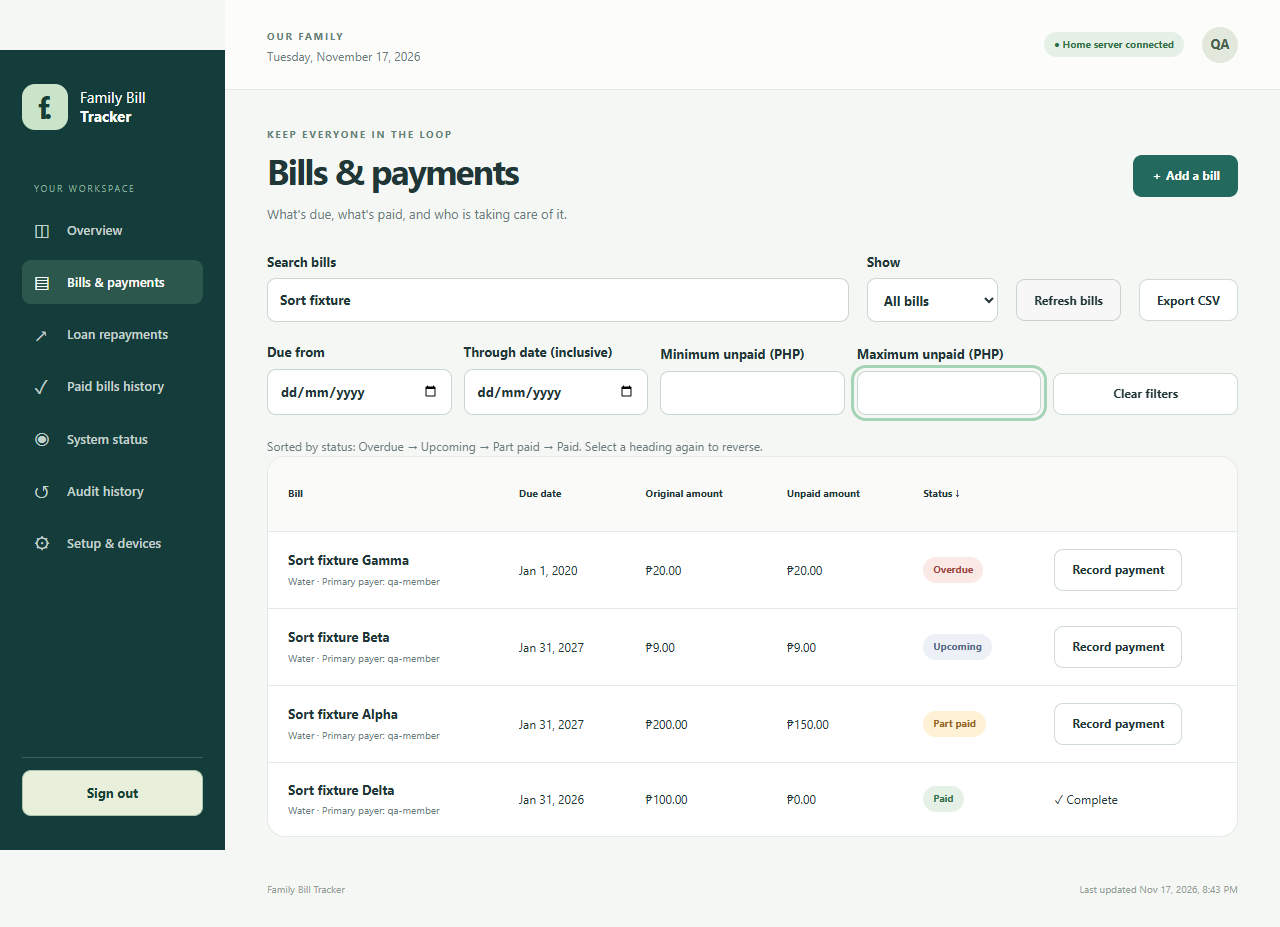
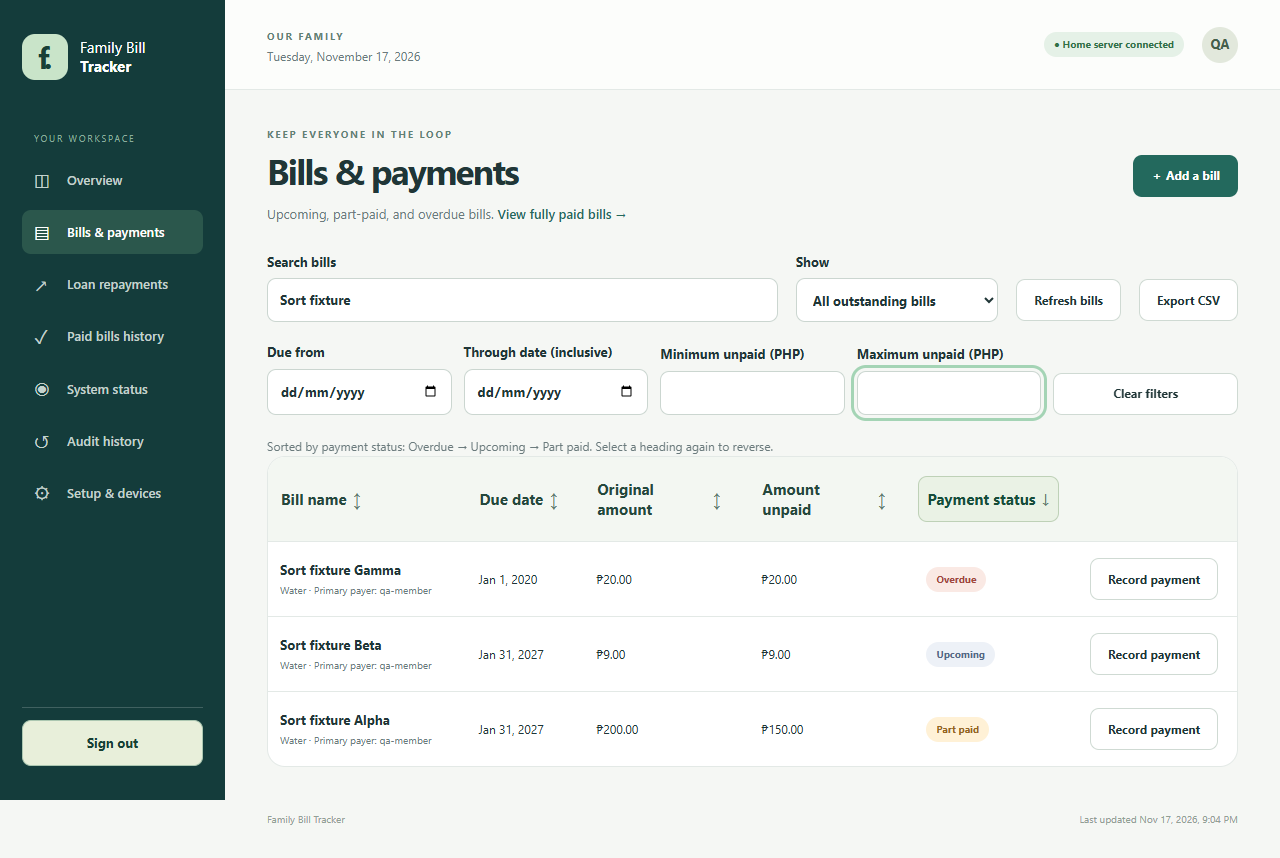
Clarify bill headings and keep paid records in history

diff --git a/templates/app.html b/templates/app.html
@@ -5,7 +5,7 @@
 <div class="workspace"><header class="topbar"><div><span class="eyebrow" id="family-name">YOUR FAMILY WORKSPACE</span><p id="today-label" class="small muted"></p></div><div class="topbar-right"><span id="connection-badge" class="badge muted-badge">Connecting</span><span id="user-avatar" class="avatar" aria-label="Your account">F</span></div></header>
 <main id="main"><div id="notice" class="notice" role="status" hidden><div><strong id="notice-title"></strong><p id="notice-copy"></p></div><button id="refresh-snapshot" class="button primary" hidden>Update saved bills</button></div><div id="error" class="form-error" role="alert" hidden></div><div id="loading" class="empty"><div class="brand-mark">f.</div><h2>Opening your family workspace…</h2><p>Checking the connection to your home server.</p></div>
 <section id="overview" class="page" hidden><div class="page-heading"><div><p class="eyebrow">A CLEARER PICTURE</p><h1>One less thing to remember.</h1><p class="muted">A little planning today. More peace of mind tomorrow.</p></div><button class="button primary add-bill" data-online>＋ Add a bill</button></div><div class="stats" id="stats"></div><div class="dashboard-grid"><article class="card"><div class="card-heading"><div><h2>Coming up next</h2><p class="muted small">Your next payments, in order.</p></div><a href="#bills">View all →</a></div><div id="upcoming-list"></div></article><div class="stack"><article class="home-card"><span class="eyebrow">YOUR HOME CONNECTION</span><div class="home-icon" aria-hidden="true">⌂</div><h2 id="home-name">Family NAS</h2><p id="home-copy">Checking your home server.</p><a href="#system" class="button light">Check system status →</a></article><article class="card"><p class="eyebrow">A LITTLE ROUTINE HELPS</p><h3>Paid a bill today?</h3><p class="muted small">Record the payment so everyone knows it's taken care of.</p><a href="#bills">Review your bills →</a></article></div></div><article class="card activity-card"><div class="card-heading"><h2>Recently recorded</h2><span class="small muted">Shared with your family</span></div><div id="activity-list"></div></article></section>
-<section id="bills" class="page" hidden><div class="page-heading"><div><p class="eyebrow">KEEP EVERYONE IN THE LOOP</p><h1>Bills & payments</h1><p class="muted">What's due, what's paid, and who is taking care of it.</p></div><button class="button primary add-bill" data-online>＋ Add a bill</button></div><div class="toolbar"><label class="search-label">Search bills<input id="search" type="search" placeholder="Search title, category, or person"></label><label>Show<select id="status-filter"><option value="all">All bills</option><option value="unpaid">Unpaid</option><option value="overdue">Overdue</option><option value="paid">Paid</option></select></label><button id="refresh-online" class="button secondary" data-online>Refresh bills</button><a class="button secondary" id="export-link" href="/api/export/">Export CSV</a></div><div id="bill-filters"></div><div id="mobile-bill-sort" class="mobile-bill-sort" aria-label="Sort bills"></div><p id="bill-sort-description" class="hint" role="status"></p><article class="card bill-table"><div class="table-scroll"><table><thead><tr><th aria-sort="none"><button type="button" class="sort-heading" data-sort="title">Bill <span aria-hidden="true"></span></button></th><th aria-sort="ascending"><button type="button" class="sort-heading" data-sort="date">Due date <span aria-hidden="true">↑</span></button></th><th aria-sort="none"><button type="button" class="sort-heading" data-sort="original">Original amount <span aria-hidden="true"></span></button></th><th aria-sort="none"><button type="button" class="sort-heading" data-sort="amount">Unpaid amount <span aria-hidden="true"></span></button></th><th aria-sort="none"><button type="button" class="sort-heading" data-sort="status">Status <span aria-hidden="true"></span></button></th><th><span class="sr-only">Action</span></th></tr></thead><tbody id="bill-rows"></tbody></table></div><div id="bills-empty" class="empty" hidden><h3>No matching bills.</h3><p>Clear the filters or add a bill.</p></div></article></section>
+<section id="bills" class="page" hidden><div class="page-heading"><div><p class="eyebrow">KEEP EVERYONE IN THE LOOP</p><h1>Bills & payments</h1><p class="muted">Upcoming, part-paid, and overdue bills. <a href="#history">View fully paid bills →</a></p></div><button class="button primary add-bill" data-online>＋ Add a bill</button></div><div class="toolbar"><label class="search-label">Search bills<input id="search" type="search" placeholder="Search title, category, or person"></label><label>Show<select id="status-filter"><option value="all">All outstanding bills</option><option value="upcoming">Upcoming</option><option value="partial">Part paid</option><option value="overdue">Overdue</option></select></label><button id="refresh-online" class="button secondary" data-online>Refresh bills</button><a class="button secondary" id="export-link" href="/api/export/">Export CSV</a></div><div id="bill-filters"></div><div id="mobile-bill-sort" class="mobile-bill-sort" aria-label="Sort bills"></div><p id="bill-sort-description" class="hint" role="status"></p><article class="card bill-table"><div class="table-scroll"><table><thead><tr><th aria-sort="none"><button type="button" class="sort-heading" data-sort="title">Bill name <span aria-hidden="true"></span></button></th><th aria-sort="ascending"><button type="button" class="sort-heading" data-sort="date">Due date <span aria-hidden="true">↑</span></button></th><th aria-sort="none"><button type="button" class="sort-heading" data-sort="original">Original amount <span aria-hidden="true"></span></button></th><th aria-sort="none"><button type="button" class="sort-heading" data-sort="amount">Amount unpaid <span aria-hidden="true"></span></button></th><th aria-sort="none"><button type="button" class="sort-heading" data-sort="status">Payment status <span aria-hidden="true"></span></button></th><th><span class="sr-only">Action</span></th></tr></thead><tbody id="bill-rows"></tbody></table></div><div id="bills-empty" class="empty" hidden><h3>No outstanding bills match.</h3><p>Clear the filters, add a bill, or <a href="#history">review paid bills history</a>.</p></div></article></section>
 <section id="loans" class="page" hidden><div class="page-heading"><div><p class="eyebrow">ONE INSTALLMENT AT A TIME</p><h1>Loan repayments</h1><p class="muted">Track agreed repayment amounts without connecting a bank.</p></div><button id="add-loan" class="button primary" data-online>＋ Add a loan</button></div><div id="loan-filters"></div><div id="loan-cards" class="loan-grid"></div></section>
 <section id="history" class="page" hidden>
 <div class="page-heading"><div><p class="eyebrow">SHARED WITH YOUR FAMILY</p><h1>Paid bills history</h1><p class="muted">Review fully paid bills and completed loan installments.</p></div></div>

diff --git a/static/app.css b/static/app.css
@@ -23,3 +23,8 @@ progress{display:block;width:100%;height:9px;border:0;accent-color:#609779;margi
 @media(min-width:781px){.stats{grid-template-columns:repeat(3,minmax(0,1fr))}.bill-table .table-scroll,.history-table .table-scroll{overflow-x:auto}.bill-table table{min-width:730px}}@media(max-width:780px){.mobile-bill-sort{display:flex;gap:8px;flex-wrap:wrap;margin:0 0 12px}.mobile-bill-sort .button{min-height:44px;padding:8px 10px;white-space:normal}.mobile-bill-sort [aria-pressed=true]{background:#e6efdc;border-color:#7d9d83}.bill-table td:nth-child(3)::before{content:"Original ";color:var(--muted);font-weight:400}.bill-table td:nth-child(4)::before{content:"Unpaid ";color:var(--muted);font-weight:400}.bill-table td:nth-child(4){text-align:right;font-weight:650}.bill-table td:nth-child(5){text-align:left}.bill-table td:nth-child(6){text-align:right}.history-table{overflow:visible}.history-table thead{display:none}.history-table tbody tr{display:grid;grid-template-columns:minmax(0,1fr) minmax(0,1fr);gap:12px;padding:18px;border-top:1px solid var(--line)}.history-table td{border:0;padding:0;min-width:0!important;overflow-wrap:anywhere}.history-table td:first-child{grid-column:1/-1}.history-table td[data-label]::before{content:attr(data-label);display:block;font-size:11px;color:var(--muted)}.history-table td:last-child{grid-column:1/-1}.history-table .table-scroll{overflow:visible}.history-table .bill-detail{min-height:44px}.sort-heading{min-height:44px}}@media(max-width:380px){.stats{grid-template-columns:1fr}.bill-type-choice{padding:16px}}
 
 .history-table{padding:0}@media(max-width:780px){.stats .stat:last-child:nth-child(3){grid-column:1/-1}.bill-table td:nth-child(2){grid-column:1/-1}.bill-table td:nth-child(3){text-align:left}.bill-table td:nth-child(5){grid-column:1}.bill-table td:nth-child(6){grid-column:2}}
+
+/* Larger, sentence-case sorting controls with clear hover, active and focus states. */
+.bill-table th{padding:12px 20px;text-transform:none;letter-spacing:0;background:#f3f7f2}.bill-table .sort-heading{display:inline-flex;align-items:center;gap:9px;min-height:46px;margin-left:-10px;padding:10px;border:1px solid transparent;border-radius:9px;font-family:inherit;font-size:15px;font-weight:700;line-height:1.35;letter-spacing:0;text-transform:none;color:#25483d;text-decoration:none}.sort-heading span{font-size:18px;line-height:1;color:#617b6e}.bill-table .sort-heading:hover{background:#e4efdf;border-color:#abc5af;color:#153f31;text-decoration:none}.bill-table th[aria-sort=ascending] .sort-heading,.bill-table th[aria-sort=descending] .sort-heading{background:#eaf2e5;border-color:#bed1b7;color:#174d3a}.bill-table th[aria-sort=ascending] .sort-heading:hover,.bill-table th[aria-sort=descending] .sort-heading:hover{background:#dcebd5;border-color:#8daf95}.bill-table .sort-heading:focus-visible{outline:3px solid #3c8666;outline-offset:2px;background:#e4efdf}.mobile-bill-sort .button{font-size:13px;gap:8px}.mobile-bill-sort .button:hover{background:#e4efdf;border-color:#abc5af}@media(min-width:781px){.bill-table table{min-width:890px}}@media(prefers-reduced-motion:no-preference){.sort-heading,.mobile-bill-sort .button{transition:background-color .15s,border-color .15s,color .15s}}
+
+.bill-table .sort-heading{white-space:normal;max-width:142px;margin-left:-8px;padding:9px 8px;gap:6px}@media(min-width:781px){.bill-table th{padding:12px}.bill-table td{padding:16px 12px}}

diff --git a/static/app.js b/static/app.js
@@ -102,7 +102,7 @@
     if (!data) return;
     const search = $('search').value.toLowerCase();
     const filter = $('status-filter').value;
-    const bills = FBTFilters.filterRecords(data.bills, {...viewFilters('bill'), search, status:filter, sort:billSort});
+    const bills = FBTFilters.filterRecords(data.bills.filter(b=>Number(b.balance)>0), {...viewFilters('bill'), search, status:filter, sort:billSort});
     $('bill-rows').innerHTML = bills.map(row).join('');
     $('bills-empty').hidden = bills.length > 0;
     updateSortHeadings();
@@ -110,16 +110,16 @@
   function viewFilters(prefix) {
     return Object.fromEntries(new FormData($(`${prefix}-view-filters`)));
   }
-  const sortNames={title:'Bill',date:'Due date',original:'Original amount',amount:'Unpaid amount',status:'Status'};
+  const sortNames={title:'Bill name',date:'Due date',original:'Original amount',amount:'Amount unpaid',status:'Payment status'};
   const firstSort={title:'asc',date:'asc',original:'desc',amount:'desc',status:'asc'};
-  const sortDirection=(key,direction)=>key==='title'?(direction==='asc'?'A–Z':'Z–A'):key==='date'?(direction==='asc'?'earliest first':'latest first'):key==='status'?(direction==='asc'?'Paid → Part paid → Upcoming → Overdue':'Overdue → Upcoming → Part paid → Paid'):(direction==='asc'?'lowest first':'highest first');
+  const sortDirection=(key,direction)=>key==='title'?(direction==='asc'?'A–Z':'Z–A'):key==='date'?(direction==='asc'?'earliest first':'latest first'):key==='status'?(direction==='asc'?'Part paid → Upcoming → Overdue':'Overdue → Upcoming → Part paid'):(direction==='asc'?'lowest first':'highest first');
   $('mobile-bill-sort').innerHTML=Object.entries(sortNames).map(([key,name])=>`<button type="button" class="button secondary" data-sort="${key}" data-sort-name="${name}">${name}<span aria-hidden="true"></span></button>`).join('');
   function updateSortHeadings() {
     const [key,direction]=billSort.split('-');
     document.querySelectorAll('[data-sort]').forEach(button=> {
       const active=button.dataset.sort===key;
       const next=active?(direction==='asc'?'desc':'asc'):firstSort[button.dataset.sort];
-      button.querySelector('span').textContent=active?(direction==='asc'?' ↑':' ↓'):'';
+      button.querySelector('span').textContent=active?(direction==='asc'?' ↑':' ↓'):' ↕';
       button.setAttribute('aria-label',`${sortNames[button.dataset.sort]}: sort ${sortDirection(button.dataset.sort,next)}`);
       button.closest('th')?.setAttribute('aria-sort',active?(direction==='asc'?'ascending':'descending'):'none');
       if(button.closest('#mobile-bill-sort')) button.setAttribute('aria-pressed',String(active));

diff --git a/static/sw.js b/static/sw.js
@@ -1,5 +1,5 @@
 /* Cache only the public shell. Authenticated responses and API data are never cached here. */
-const SHELL_CACHE = 'fbt-shell-v7';
+const SHELL_CACHE = 'fbt-shell-v8';
 const ASSETS = ['/app/', '/static/app.css', '/static/fonts.css', '/static/app.js', '/static/review.js', '/static/review.css', '/static/record-filters.js', '/static/offline-store.js', '/static/icon.svg', '/static/icon-180.png', '/static/icon-192.png', '/static/icon-512.png', '/static/manifest.webmanifest'];
 self.addEventListener('install', event => {
   event.waitUntil(caches.open(SHELL_CACHE).then(cache => cache.addAll(ASSETS)).then(() => self.skipWaiting()));

diff --git a/docs/BILL-ENTRY-AND-HISTORY.md b/docs/BILL-ENTRY-AND-HISTORY.md
@@ -13,23 +13,23 @@ Existing records keep their stored categories. No type migration is applied to e
 
 ## Sort using bill headings
 
-Bills & payments shows original amount and unpaid amount separately. Select a heading to sort immediately, then select it again to reverse:
+Bills & payments shows only outstanding bills, with original amount and amount unpaid separately. Fully paid records appear in Paid bills history, preserving their payments and audit records. Select a heading to sort immediately, then select it again to reverse:
 
 | Heading | Initial direction when selecting a different heading | Reverse |
 | --- | --- | --- |
-| Bill | A–Z, case-insensitive natural order | Z–A |
+| Bill name | A–Z, case-insensitive natural order | Z–A |
 | Due date | Earliest | Latest |
 | Original amount | Highest | Lowest |
-| Unpaid amount | Highest | Lowest |
-| Status | Paid → Part paid → Upcoming → Overdue | Overdue → Upcoming → Part paid → Paid |
+| Amount unpaid | Highest | Lowest |
+| Payment status | Part paid → Upcoming → Overdue | Overdue → Upcoming → Part paid |
 
-The initial view is already sorted by earliest due date. Clicking its active Due date heading reverses that order. Equal values use record ID as the tie-breaker. Original amount means that bill's amount, including an individual loan installment rather than the whole parent loan. Status rank preserves the requested Paid / Part paid / Overdue ordering while retaining Upcoming.
+The initial view is already sorted by earliest due date. Clicking its active Due date heading reverses that order. Equal values use record ID as the tie-breaker. Original amount means that bill's amount, including an individual loan installment rather than the whole parent loan. The outstanding view orders Part paid, Upcoming, and Overdue explicitly. Its status filter has no Paid option; fully paid records are reviewed in history. Larger sentence-case heading buttons show a hover/focus highlight and an active direction indicator.
 
 There is no Bills Sort by dropdown. On phones, labelled sorting buttons appear above the cards and use the same active state and directions. Loan cards retain their separate sort dropdown. Search and date/amount/status filters combine with the selected bill sort, which remains selected through ordinary snapshot refreshes and detail viewing. Clear filters resets the bill view to its initial earliest-first order. All changes are immediate and do not require transaction confirmation.
 
 ## Shared paid-bills history
 
-The Overview paid-bill summary is replaced by **Paid bills history**, available to every signed-in family member. It includes only bills with zero remaining balance and recorded payments, including completed loan installments. Part-paid records remain in the existing bill views with their payment details.
+Fully paid bills are excluded from Bills & payments and retained in history. The Overview paid-bill summary is replaced by **Paid bills history**, available to every signed-in family member. It includes only bills with zero remaining balance and recorded payments, including completed loan installments. Part-paid records remain in the existing bill views with their payment details.
 
 History shows the original amount, total recorded payments, due date, and **Date fully paid**. That date is the latest recorded payment date on the bill; it is not the time someone entered the record. Review payments opens individual amounts/dates, their recorders, notes, primary payer, and a parent-loan reference when applicable.
 
@@ -39,7 +39,7 @@ Primary payer and Recorded by are separate filters. A recorder is the person who
 
 The same sorting and history operate on an opted-in, timestamped offline snapshot. This remains read-only; reconnect and refresh to obtain newer payments or names. Older saved snapshots can use their recorded names as a fallback for history filters until refreshed. Global administrator audit history remains live-only and is separate from shared paid-bill history.
 
-This change adds payment-recorder IDs to the authenticated snapshot, but introduces no database schema migration and does not change balances or erase records. The service-worker shell advances to v7. Restart the web process after deployment to load the updated template, then refresh the browser. Existing database backup practices still apply.
+This change adds payment-recorder IDs to the authenticated snapshot, but introduces no database schema migration and does not change balances or erase records. The service-worker shell advances to v8. Restart the web process after deployment to load the updated template, then refresh the browser. Existing database backup practices still apply.
 
 History pagination limits rendered rows, not the size of the existing all-bills snapshot download. A future server-paginated snapshot strategy may be appropriate for substantially larger households/history datasets.
 
@@ -54,3 +54,5 @@ All records shown are fictional browser-test fixtures.
 ![Paid history with a primary-payer filter](screenshots/paid-history.png)
 
 ![Bill headings sort original and unpaid amounts separately](screenshots/bill-column-sort.png)
+
+![Larger sortable headings with a hover highlight](screenshots/bill-heading-hover.png)

diff --git a/docs/FAMILY-WORKFLOWS.md b/docs/FAMILY-WORKFLOWS.md
@@ -60,6 +60,6 @@ Account audit snapshots now include username, first name, last name, email, acti
 
 ## Upgrade and verification
 
-Back up the database and verify restore instructions in OPERATIONS.md. Stop web and worker processes before running migration `0004_family_workflows`, then restart both. The migration preserves all existing rows and audit history, adds lifecycle flags and retry receipts, and replaces audit triggers within the migration transaction. This also handles SQLite table rebuilds. Do not edit the frozen v1/v2 trigger definitions after deployment. Check System status → Audit logging after upgrading. Cached public shells advance to v7 with the new review/filter assets; private snapshots still require a live refresh for new fields.
+Back up the database and verify restore instructions in OPERATIONS.md. Stop web and worker processes before running migration `0004_family_workflows`, then restart both. The migration preserves all existing rows and audit history, adds lifecycle flags and retry receipts, and replaces audit triggers within the migration transaction. This also handles SQLite table rebuilds. Do not edit the frozen v1/v2 trigger definitions after deployment. Check System status → Audit logging after upgrading. Cached public shells advance to v8 with the new review/filter assets; private snapshots still require a live refresh for new fields.
 
 CI runs PostgreSQL 17 transaction/security/migration checks, JavaScript filter/offline tests and real Chromium workflows on every push/PR, and attaches screenshots as a browser-qa artifact. Browser checks use fictional accounts and an isolated test database; no real family records or local credentials enter the tests. Install the development-only browser dependency with `npm ci` and `npx playwright install chromium`; set `FBT_BROWSER_TESTS=1` when running Django tests to include those checks locally.
